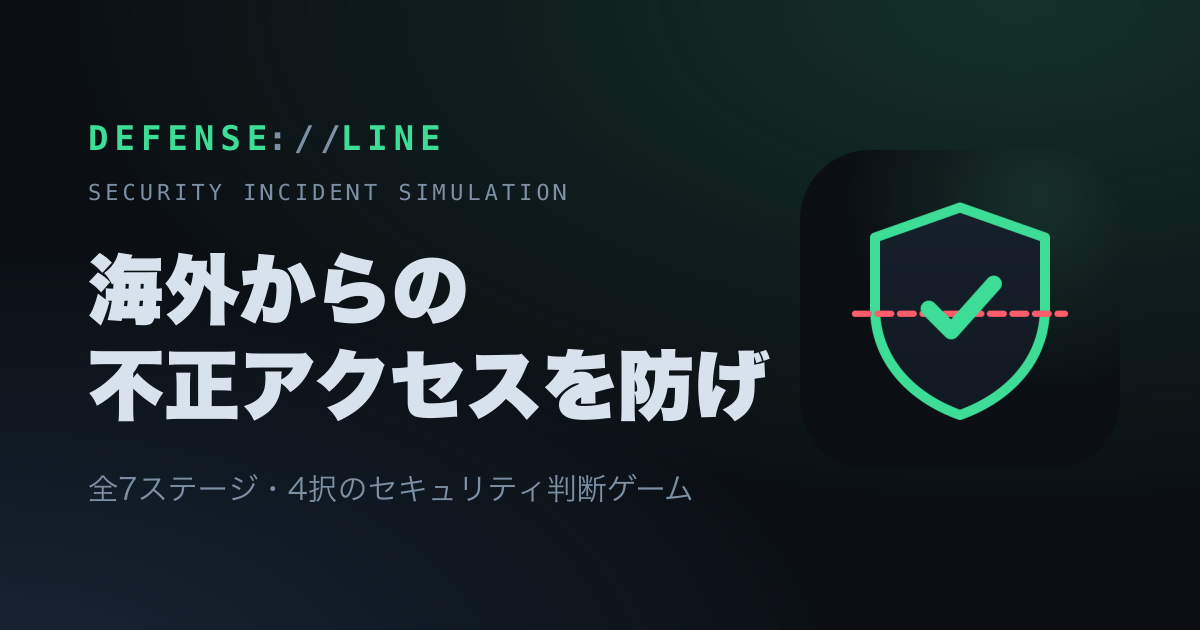
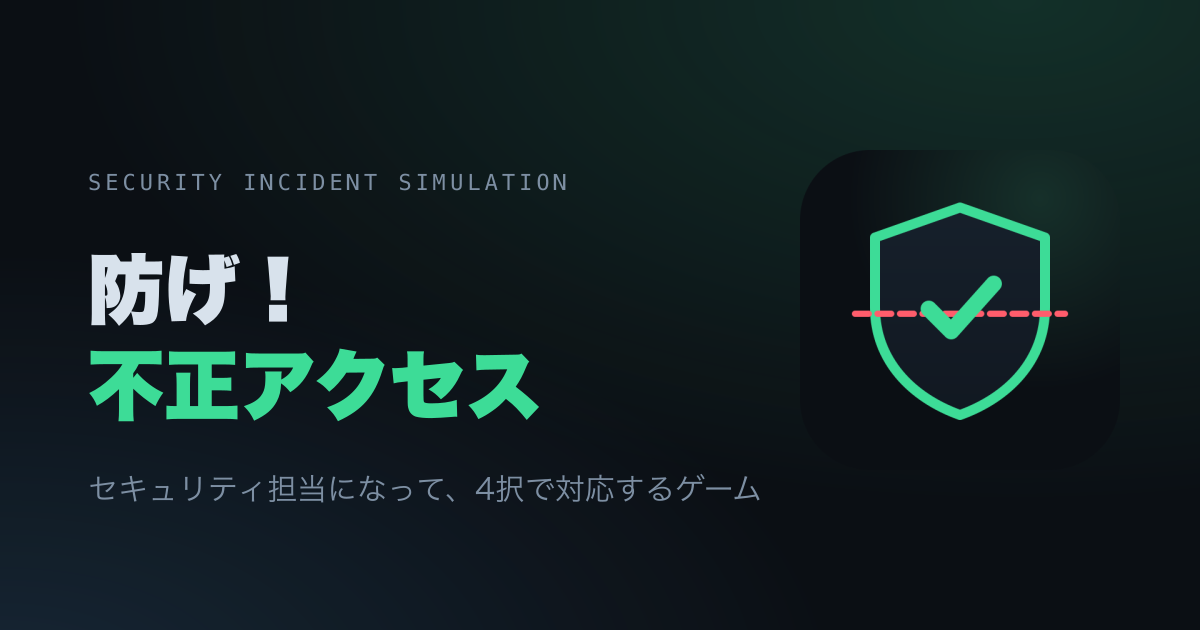
ゲーム名と見出しを変更し、インシデントラボにInstagramを追加
- DEFENSE LINEを「防げ！不正アクセス」に改名（OGP画像も更新）
- トップの見出しを「つくったもの」、ゲーム一覧を「つくったゲーム」に変更
- 見出しの強制改行をやめて1行で表示
- ゲームカードの不要な特徴リストを削除
- インシデントラボのカードにInstagramボタンを追加

diff --git a/games/index.html b/games/index.html
@@ -18,17 +18,17 @@
     <meta name="viewport" content="width=device-width, initial-scale=1" />
     <meta
       name="description"
-      content="conte0745がつくったWebゲームの一覧です。お酒の好み診断「一杯診断」や、セキュリティ判断ゲーム「DEFENSE LINE」をブラウザで遊べます。"
+      content="conte0745がつくったWebゲームの一覧です。お酒の好み診断「一杯診断」や、セキュリティ判断ゲーム「防げ！不正アクセス」をブラウザで遊べます。"
     />
     <link rel="canonical" href="https://profile.shiftonton.net/games/" />
     <meta property="og:type" content="website" />
     <meta property="og:site_name" content="conte0745" />
     <meta property="og:locale" content="ja_JP" />
     <meta property="og:url" content="https://profile.shiftonton.net/games/" />
-    <meta property="og:title" content="Webゲーム — conte0745" />
+    <meta property="og:title" content="つくったゲーム — conte0745" />
     <meta
       property="og:description"
-      content="conte0745がつくったWebゲームの一覧です。お酒の好み診断「一杯診断」や、セキュリティ判断ゲーム「DEFENSE LINE」をブラウザで遊べます。"
+      content="conte0745がつくったWebゲームの一覧です。お酒の好み診断「一杯診断」や、セキュリティ判断ゲーム「防げ！不正アクセス」をブラウザで遊べます。"
     />
     <meta
       property="og:image"
@@ -45,7 +45,7 @@
       href="../profile-favicon.png?v=20261002"
     />
     <link rel="apple-touch-icon" href="../profile-favicon.png?v=20261002" />
-    <title>Webゲーム — conte0745</title>
+    <title>つくったゲーム — conte0745</title>
     <script src="../components.js"></script>
     <link rel="stylesheet" href="../site.css" />
   </head>
@@ -62,7 +62,7 @@
 
     <header class="intro intro-single page" id="top">
       <div>
-        <h1>あそんで、<span>ためになる。</span></h1>
+        <h1>つくったゲーム</h1>
         <p class="intro-copy">
           ブラウザですぐに遊べる、診断やシミュレーションのゲームを集めました。登録は不要です。
         </p>
@@ -102,29 +102,25 @@
 
       <product-card id="defense-line" color="mint">
         <span slot="kind" class="kind">WEB GAME</span>
-        <h2 slot="title">DEFENSE LINE</h2>
+        <h2 slot="title" class="title-long"><span class="nowrap">防げ！</span><wbr /><span class="nowrap">不正アクセス</span></h2>
         <tech-badge slot="tech" tech="html">HTML</tech-badge>
         <tech-badge slot="tech" tech="css">CSS</tech-badge>
         <tech-badge slot="tech" tech="javascript">JavaScript</tech-badge>
         <p>
           セキュリティ担当者になって、海外からの不正アクセスに4択で立ち向かうシミュレーションゲームです。
         </p>
-        <ul class="feature-list">
-          <li>全7ステージ、間違えるとそのステージからやり直し</li>
-          <li>選択ごとに結果と解説を表示</li>
-        </ul>
         <a slot="actions" class="button" href="../defense-line/index.html"
           >ゲームをはじめる <span>→</span></a
         >
         <a
           slot="image"
           href="../defense-line/index.html"
-          aria-label="DEFENSE LINEをはじめる"
+          aria-label="防げ！不正アクセスをはじめる"
         >
           <img
             class="card-art"
             src="../defense-line/defense-line-icon.png"
-            alt="緑の盾とチェックマークを描いたDEFENSE LINEのアイコン"
+            alt="緑の盾とチェックマークを描いた防げ！不正アクセスのアイコン"
             width="512"
             height="512"
             loading="lazy"

diff --git a/defense-line/index.html b/defense-line/index.html
@@ -13,23 +13,23 @@
 </script>
 <meta charset="UTF-8">
 <meta name="viewport" content="width=device-width, initial-scale=1">
-<meta name="description" content="DEFENSE LINEは、海外からの不正アクセスに対応するセキュリティ担当者になって、4つの選択肢から最善の一手を選ぶシミュレーションゲームです。">
+<meta name="description" content="防げ！不正アクセスは、海外からの不正アクセスに対応するセキュリティ担当者になって、4つの選択肢から最善の一手を選ぶシミュレーションゲームです。">
 <link rel="canonical" href="https://profile.shiftonton.net/defense-line/">
 <meta property="og:type" content="website">
 <meta property="og:site_name" content="conte0745">
 <meta property="og:locale" content="ja_JP">
 <meta property="og:url" content="https://profile.shiftonton.net/defense-line/">
-<meta property="og:title" content="DEFENSE LINE — 海外からの不正アクセスを防げ">
+<meta property="og:title" content="防げ！不正アクセス — conte0745">
 <meta property="og:description" content="セキュリティ担当者になって、次々に起こるインシデントに4択で対応するシミュレーションゲームです。">
 <meta property="og:image" content="https://profile.shiftonton.net/defense-line/ogp-defense-line.png">
 <meta property="og:image:width" content="1200">
 <meta property="og:image:height" content="630">
-<meta property="og:image:alt" content="DEFENSE LINE — 海外からの不正アクセスを防げ">
+<meta property="og:image:alt" content="防げ！不正アクセス">
 <meta name="twitter:card" content="summary_large_image">
 <meta name="theme-color" content="#0b0f14">
 <link rel="icon" type="image/png" sizes="512x512" href="defense-line-icon.png?v=20261124">
 <link rel="apple-touch-icon" href="defense-line-icon.png?v=20261124">
-<title>DEFENSE LINE — 海外からの不正アクセスを防げ</title>
+<title>防げ！不正アクセス — conte0745</title>
 <link rel="preconnect" href="https://fonts.googleapis.com">
 <link href="https://fonts.googleapis.com/css2?family=JetBrains+Mono:wght@400;700&family=Noto+Sans+JP:wght@400;500;700;900&display=swap" rel="stylesheet">
 <style>
@@ -103,7 +103,7 @@ ul.recap li{margin-bottom:4px}
     <a href="../games/index.html">← ゲーム一覧へ</a>
   </nav>
   <header class="bar">
-    <div class="brand">DEFENSE<span>://</span>LINE</div>
+    <div class="brand">防げ！不正アクセス</div>
     <div class="progress" id="progress"></div>
   </header>
   <main id="app"></main>
@@ -277,7 +277,7 @@ function title(){
   app.innerHTML = `
   <div class="card fade">
     <div class="kicker">SECURITY INCIDENT SIMULATION</div>
-    <h1>海外からの<br>不正アクセスを防げ</h1>
+    <h1>防げ！不正アクセス</h1>
     <p class="lead">あなたは会員制Webサービスのセキュリティ担当者。次々に起こる事態に、4つの選択肢から最善の一手を選んでください。</p>
     <p class="lead">正しい判断なら次のステージへ。判断を誤ると防衛線は突破され、そのステージからやり直しです。全${STAGES.length}ステージ。</p>
     <div class="btns"><button class="btn" id="start">ミッション開始</button></div>

diff --git a/index.html b/index.html
@@ -63,7 +63,7 @@
 
     <header class="intro page" id="top">
       <div>
-        <h1>つくったり、<span>発信したり。</span></h1>
+        <h1>つくったもの</h1>
         <p class="intro-copy">
           conte0745のマイページです。予定調整アプリ「YOTEI」やAPI検証のChrome拡張機能「EviREST」など、つくったものを紹介しています。
         </p>
@@ -235,7 +235,7 @@
         <p>ブラウザですぐに遊べる、診断やシミュレーションのゲームです。</p>
         <ul class="feature-list">
           <li>一杯診断：6つの質問から、あなたに合うお酒を診断</li>
-          <li>DEFENSE LINE：海外からの不正アクセスに4択で立ち向かう</li>
+          <li>防げ！不正アクセス：海外からの不正アクセスに4択で立ち向かう</li>
         </ul>
         <a slot="actions" class="button" href="games/index.html"
           >ゲーム一覧を見る <span>→</span></a
@@ -255,7 +255,7 @@
           />
           <img
             src="defense-line/defense-line-icon.png"
-            alt="DEFENSE LINEのアイコン"
+            alt="防げ！不正アクセスのアイコン"
             width="512"
             height="512"
             loading="lazy"
@@ -373,14 +373,23 @@
         <div class="card-content">
           <span class="kind">INCIDENT LAB</span>
           <h2>インシデント<br />ラボ</h2>
-          <p>大規模障害事例を、YouTube動画でわかりやすく紹介しています。</p>
-          <a
-            class="button"
-            href="https://www.youtube.com/@%E3%82%A4%E3%83%B3%E3%82%B7%E3%83%87%E3%83%B3%E3%83%88%E3%83%A9%E3%83%9C"
-            target="_blank"
-            rel="noopener noreferrer"
-            >チャンネルを見る <span>↗</span></a
-          >
+          <p>大規模障害事例を、YouTubeとInstagramの動画でわかりやすく紹介しています。</p>
+          <div class="card-actions">
+            <a
+              class="button"
+              href="https://www.youtube.com/@%E3%82%A4%E3%83%B3%E3%82%B7%E3%83%87%E3%83%B3%E3%83%88%E3%83%A9%E3%83%9C"
+              target="_blank"
+              rel="noopener noreferrer"
+              >チャンネルを見る <span>↗</span></a
+            >
+            <a
+              class="button button-sub"
+              href="https://www.instagram.com/incidentlab_6838/"
+              target="_blank"
+              rel="noopener noreferrer"
+              >Instagramを見る <span>↗</span></a
+            >
+          </div>
         </div>
         <a
           class="video-window"

diff --git a/site.css b/site.css
@@ -491,3 +491,22 @@ footer {
 .intro-single {
   grid-template-columns: 1fr;
 }
+.nowrap {
+  white-space: nowrap;
+}
+product-card h2.title-long {
+  font-size: clamp(28px, 3.4vw, 40px);
+  line-height: 1.1;
+}
+.intro-single h1 {
+  font-size: clamp(40px, 8vw, 98px);
+}
+.card-actions {
+  display: flex;
+  gap: 10px;
+  flex-wrap: wrap;
+  margin-top: 24px;
+}
+.card-actions .button {
+  margin: 0;
+}

diff --git a/README.md b/README.md
@@ -12,12 +12,12 @@ Cloudflare を利用してホスティングされています。
 | ファイル / ディレクトリ                      | 説明                                                                |
 | :------------------------------------------- | :------------------------------------------------------------------ |
 | `index.html`                                 | トップページ。自己紹介、プロダクト一覧、各種リンクを掲載            |
-| `games/`                                     | Webゲーム一覧ページ（一杯診断・DEFENSE LINE）                       |
+| `games/`                                     | Webゲーム一覧ページ（一杯診断・防げ！不正アクセス）                       |
 | `site.css`                                   | トップページとゲーム一覧ページ共通のスタイル                        |
 | `subbear/`                                   | サブスク管理アプリ「サブベア（Subbear）」の紹介ページと画像         |
 | `privacy.html`                               | プライバシーポリシーページ（Google Analytics 利用に関する規約）     |
 | `drink-diagnosis/`                           | 20歳以上向けのお酒の好み診断「一杯診断」のページ・CSS・JS・画像     |
-| `defense-line/`                              | セキュリティ判断ゲーム「DEFENSE LINE」のページと画像                |
+| `defense-line/`                              | セキュリティ判断ゲーム「防げ！不正アクセス」のページと画像                |
 | `yotei/` / `pikniwa/`                        | YOTEI・ピクニワの紹介ページと画像                                   |
 | `components.js`                              | トップ・ゲーム一覧のWeb Components（`product-card`、`tech-badge`） |
 | `intro.css`                                  | サブベア・YOTEI・ピクニワの紹介ページ共通のスタイル                 |
@@ -66,12 +66,9 @@ Cloudflare を利用してホスティングされています。
   - 20歳未満向けの入場制限と飲酒に関する注意を掲載
 - **ページ**: [一杯診断](drink-diagnosis/index.html)（[ゲーム一覧](games/index.html)に掲載）
 
-### 5. DEFENSE LINE
+### 5. 防げ！不正アクセス
 - **概要**: セキュリティ担当者になって、海外からの不正アクセスに4択で対応するシミュレーションゲーム。
-- **特徴**:
-  - 全7ステージ、間違えるとそのステージからやり直し
-  - 選択ごとに結果と解説を表示
-- **ページ**: [DEFENSE LINE](defense-line/index.html)（[ゲーム一覧](games/index.html)に掲載）
+- **ページ**: [防げ！不正アクセス](defense-line/index.html)（[ゲーム一覧](games/index.html)に掲載）
 
 ### 6. CaptGrab
 - **概要**: 画面サイズを固定して、Webページ全体を1枚のPNGにするChrome拡張機能。
@@ -93,7 +90,7 @@ Cloudflare を利用してホスティングされています。
 
 ### 8. インシデントラボ (Incident Lab)
 - **概要**: 過去の大規模なシステム障害やインシデント事例を分かりやすく解説するYouTubeチャンネル。
-- **リンク**: [YouTubeチャンネル](https://www.youtube.com/@%E3%82%A4%E3%83%B3%E3%82%B7%E3%83%87%E3%83%B3%E3%83%88%E3%83%A9%E3%83%9C)
+- **リンク**: [YouTubeチャンネル](https://www.youtube.com/@%E3%82%A4%E3%83%B3%E3%82%B7%E3%83%87%E3%83%B3%E3%83%88%E3%83%A9%E3%83%9C) / [Instagram](https://www.instagram.com/incidentlab_6838/)
 
 ### 9. TikTok
 - **概要**: つくったアプリの紹介動画を投稿しているアカウント。
